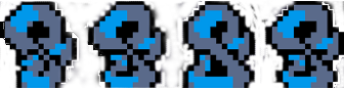
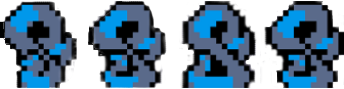
Pokemon rendered

diff --git a/JavaScript/index.js b/JavaScript/index.js
@@ -347,13 +347,30 @@ HampterImage.src = './Images/Characters/Pokemon/Hampter.png'
 
 const Hampter = new Sprite({
   position: {
-    x: 740,
+    x: 730,
     y: 190
   },
   image: HampterImage,
   frames: {
     max: 4,
-    hold: 40
+    hold: 30
+  },
+  animate: true,
+})
+
+// Nohtyp
+const NohtypImage = new Image()
+NohtypImage.src = './Images/Characters/Pokemon/Nohtyp.png'
+
+const Nohtyp = new Sprite({
+  position: {
+    x: 240,
+    y: 390
+  },
+  image: NohtypImage,
+  frames: {
+    max: 4,
+    hold: 30
   },
   animate: true,
 })
@@ -363,6 +380,7 @@ function animateBattle() {
   window.requestAnimationFrame(animateBattle);
   battleBackground.draw();
   Hampter.draw();
+  Nohtyp.draw();
 }
 animateBattle();
 
